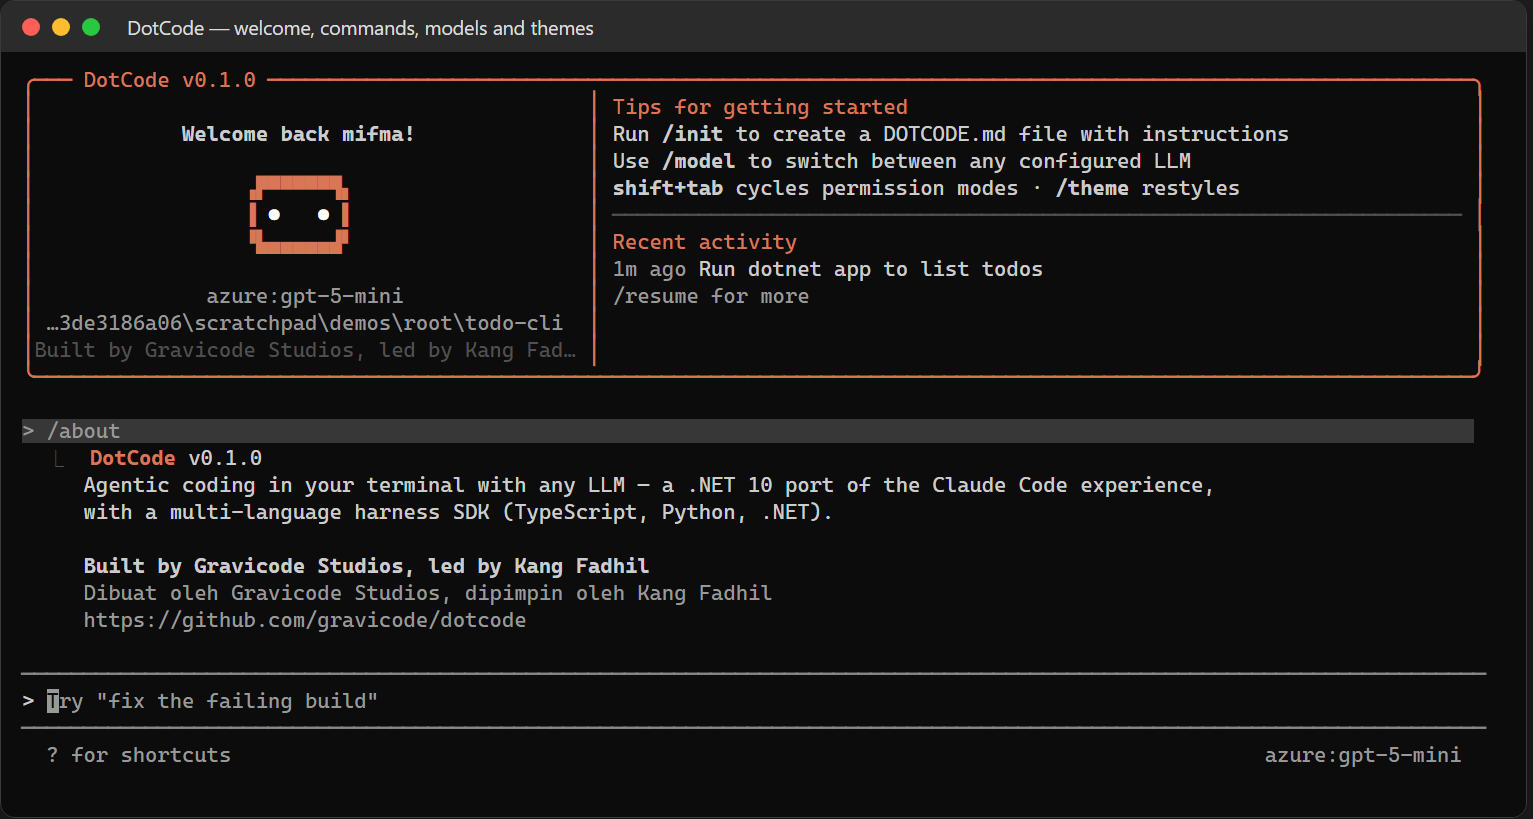
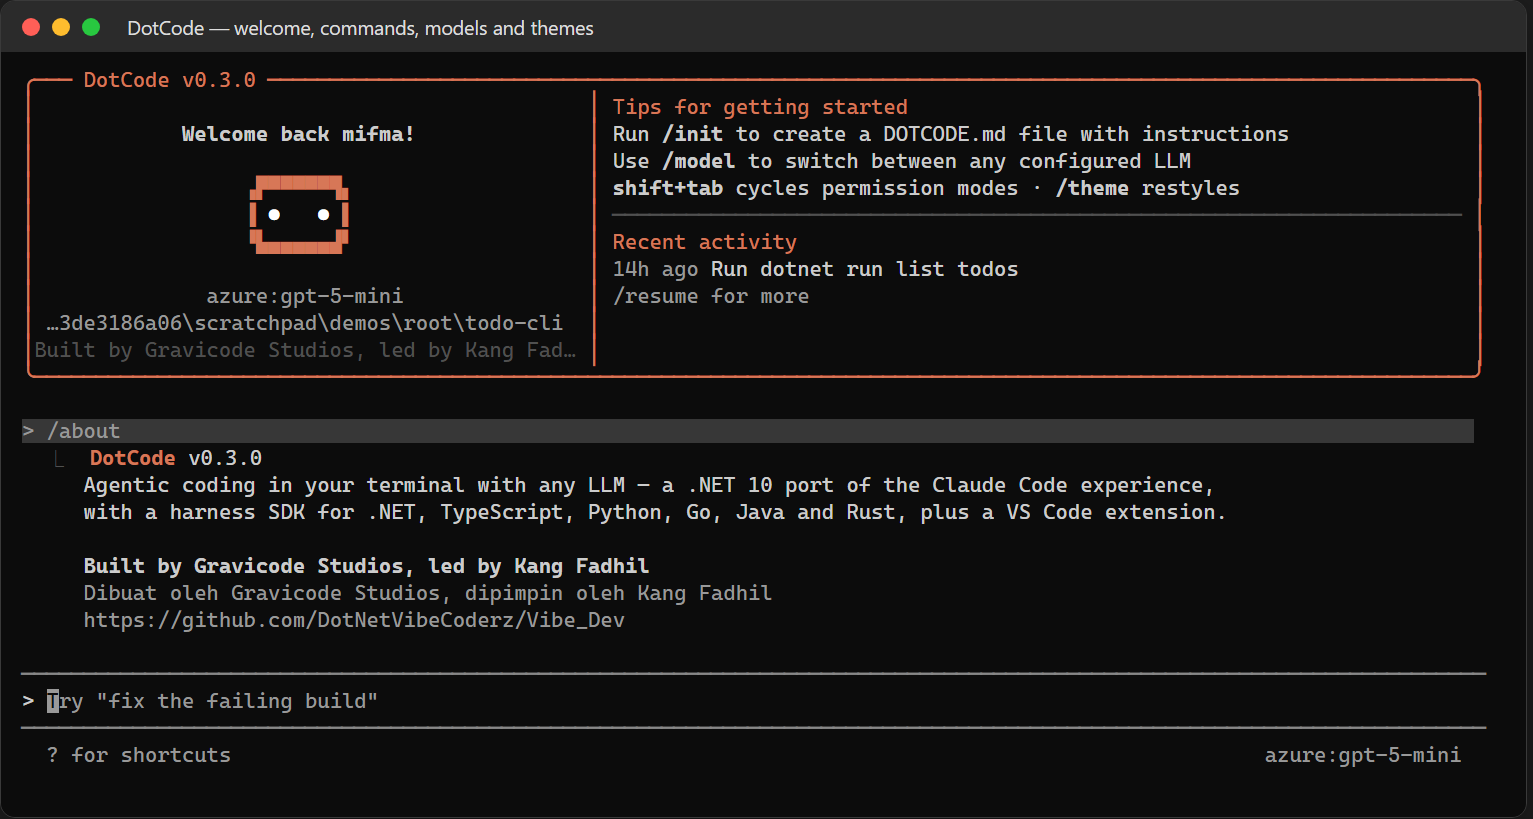
DotCode 0.3.0: refreshed screenshots, /about lists all SDKs and the VS Code extension

Changed region(s): [[0.092, 0.6105, 0.7971, 0.641], [0.3986, 0.3053, 0.6745, 0.3358], [0.2146, 0.7326, 0.3986, 0.7631]]

diff --git a/DotCode/src/DotCode.Tui/TuiApp.Commands.cs b/DotCode/src/DotCode.Tui/TuiApp.Commands.cs
@@ -124,7 +124,7 @@ internal sealed partial class App
                 [
                     t.C(t.B("DotCode"), t.Brand) + $" v{AppInfo.Version}",
                     "Agentic coding in your terminal with any LLM — a .NET 10 port of the Claude Code experience,",
-                    "with a harness SDK for .NET, TypeScript, Python, Go and Java.",
+                    "with a harness SDK for .NET, TypeScript, Python, Go, Java and Rust, plus a VS Code extension.",
                     "",
                     t.B(AppInfo.Credit),
                     t.Dim(AppInfo.CreditId),

diff --git a/DotCode/Progress.md b/DotCode/Progress.md
@@ -17,7 +17,7 @@
 | Tested by building apps, documents, scripts, with MCP, skills, plugins | ✅ | .NET console app, landing page (HTML/CSS/JS), Python & PowerShell scripts, CSV insights Markdown report (skill), notes MCP server, marketplace plugin command — see screenshots |
 | Tested with real LLMs | ✅ | Azure OpenAI gpt-5-mini (Responses API), DeepSeek V4 Flash (Chat), DeepSeek via Anthropic Messages endpoint; all four SDK samples |
 | UI/UX closely matching Claude Code incl. animations/loading, with selectable themes (colors, font) | ✅ | Spinner with shimmer + blinking tool dots, same layout/dialogs/shortcuts; 15 themes, custom JSON themes, glyph sets for fonts (unicode/ascii/nerd), accent, spinner & input styles, reduced motion |
-| Publish to NuGet, PyPI, npm | ✅ | NuGet: `DotCode.Cli` (dotnet tool), `DotCode.Sdk`, `DotCode.Engine`, `DotCode.Providers`, `DotCode.Protocol`, `DotCode.Tui`, `DotCode.Abstractions` 0.1.0 and 0.2.0 via GitHub Actions (tags `dotcode-v0.1.0`, `dotcode-v0.2.0`; secret `NUGET_API_KEY`) · npm `dotcode-sdk@0.1.0` · PyPI `dotcode-sdk 0.1.0` · GitHub Release v0.2.0 with 6 NativeAOT platforms, SHA256SUMS, SBOM, attestations, installers (live install + `dotcode update` verified) |
+| Publish to NuGet, PyPI, npm | ✅ | NuGet: `DotCode.Cli` (dotnet tool), `DotCode.Sdk`, `DotCode.Engine`, `DotCode.Providers`, `DotCode.Protocol`, `DotCode.Tui`, `DotCode.Abstractions` 0.1.0, 0.2.0 and 0.3.0 via GitHub Actions (tags `dotcode-v0.1.0`, `dotcode-v0.2.0`, `dotcode-v0.3.0`; secret `NUGET_API_KEY`) · npm `dotcode-sdk@0.1.0` · PyPI `dotcode-sdk 0.1.0` · GitHub Releases v0.2.0 and v0.3.0 (adds the VS Code `.vsix`) with 6 NativeAOT platforms, SHA256SUMS, SBOM, attestations, installers (live install + `dotcode update` verified) |
 | `--dangerously-skip-permissions` | ✅ | Plus `--allow-dangerously-skip-permissions`, managed `disableBypassPermissionsMode` |
 | Go SDK (added request) | ✅ | `sdk/go` + conformance tests + `samples/sdk/go` |
 | Java SDK (added request) | ✅ | `sdk/java` (zero-dependency, JDK 17+) + conformance tests + `samples/sdk/java` |
